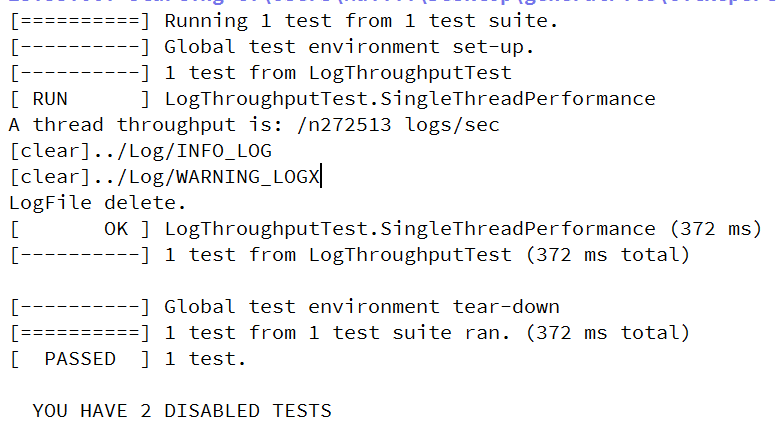
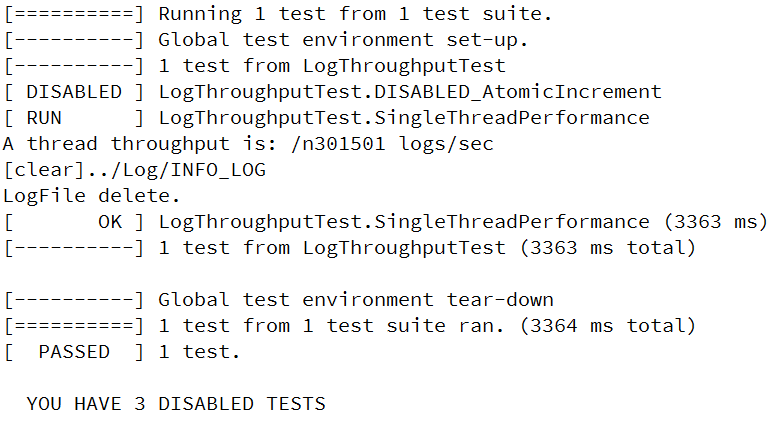
性能提升：线程安全

Changed region(s): [[0.0, 0.0, 0.9871, 0.6261], [0.0, 0.656, 0.8946, 0.8349], [0.0308, 0.8945, 0.4319, 0.9541]]

diff --git a/Wopes/ACore/main.cpp b/Wopes/ACore/main.cpp
@@ -23,12 +23,49 @@ TEST(ADir, DISABLED_isExistDir)
     ASSERT_NE(initDir.isExitsPath("./Dir"), true); // 致命断言（失败终止测试）
 }
 
+void TestThread(const int& threadNumber, const int& end) {}
+
+TEST(LogThroughputTest, DISABLED_AtomicIncrement)
+{
+    acore::ACore aLogInit;
+    aLogInit.getLogController()->setFilePath({ "../Log/INFO_LOG_TEST" });
+    aLogInit.getLogController()->setConsoleCondition(false);
+
+    constexpr int kThreads = 10;
+    constexpr int kIncrementsPerThread = 10000;
+    auto start = std::chrono::high_resolution_clock::now();
+
+    std::vector<std::thread> threads;
+    for (int i = 0; i < kThreads; ++i)
+    {
+        threads.emplace_back([=]() {
+            for (int j = 0; j < kIncrementsPerThread; ++j)
+            {
+                LOG_INFO("Test thread message: [" + std::to_string(i) + "] " + std::to_string(j));
+            }
+        });
+    }
+
+    for (auto& t : threads)
+    {
+        t.join();
+    }
+
+    auto end = std::chrono::high_resolution_clock::now();
+    auto duration = end - start;
+
+    // 输出性能指标
+    std::cout << "File with buffer: " << duration.count() / (kThreads * kIncrementsPerThread) << " ns/op\n";
+
+    // EXPECT_EQ(counter.GetCount(), kThreads * kIncrementsPerThread);
+}
+
 // DISABLED_  前缀：禁止测试项
 TEST(LogThroughputTest, SingleThreadPerformance)
 {
     const long long kLogCount = 1000000;
     acore::ACore aLogInit;
-    aLogInit.getLogController()->setFilePath({ "../Log/INFO_LOG", "../Log/WARNING_LOG" });
+    aLogInit.getLogController()->setFilePath({ "../Log/INFO_LOG" });
     aLogInit.getLogController()->setConsoleCondition(false);
     auto start = std::chrono::high_resolution_clock::now();
 

diff --git a/Wopes/ACore/aLog/log_data_param.cpp b/Wopes/ACore/aLog/log_data_param.cpp
@@ -18,6 +18,7 @@ const vector<string> &LogDataParam::getLogLevel() const
 
 void LogDataParam::push(MsgData *var)
 {
+    mInputMutex.lock();
     string dataTemp = "[";
     dataTemp.insert(1, var->date);
     dataTemp = dataTemp + "." + std::to_string(var->ms % 1000) + "] ";
@@ -26,6 +27,7 @@ void LogDataParam::push(MsgData *var)
     dataTemp = dataTemp + std::to_string(var->line) + " " + var->msg;
 
     dataString.push(dataTemp);
+    mInputMutex.unlock();
 }
 
 void LogDataParam::pushString(const string &str)
@@ -37,6 +39,7 @@ void LogDataParam::pushString(const string &str)
 
 void LogDataParam::pop()
 {
+    mInputMutex.lock();
     if (dataString.empty())
     {
         std::cerr << "queue is empty." << std::endl;
@@ -44,6 +47,7 @@ void LogDataParam::pop()
     }
 
     dataString.pop();
+    mInputMutex.unlock();
 }
 
 size_t LogDataParam::size()

diff --git a/Wopes/ACore/aLog/log_data_param.h b/Wopes/ACore/aLog/log_data_param.h
@@ -2,12 +2,14 @@
 #define LOG_DATAPARAM_H
 
 #include <list>
+#include <mutex>
 #include <queue>
 #include <string>
 #include <thread>
 #include <vector>
 
 using std::list;
+using std::mutex;
 using std::queue;
 using std::string;
 using std::thread;
@@ -58,6 +60,8 @@ public:
 
 private:
     queue<string> dataString;
+
+    mutex mInputMutex;
 
     const vector<string> logLevel = { "LOG_INFO", "LOG_DEBUG", "LOG_DETUALT", "LOG_WARN", "LOG_ERROR", "LOG_FATAL" };
 };

diff --git a/Wopes/ACore/aLog/log_file.cpp b/Wopes/ACore/aLog/log_file.cpp
@@ -128,6 +128,10 @@ void LogFile::threadHelperFunction()
     {
         for (ThreadData &fuc : vecThread)
         {
+            if (vecThread.empty())
+            {
+                break;
+            }
             if (fuc.ptrDataParam->size() > 0)
             {
                 vecThreadCondition[fuc.threadID]->condConsumer.notify_all();

diff --git a/Wopes/ACore/aLog/log_system.h b/Wopes/ACore/aLog/log_system.h
@@ -51,7 +51,9 @@ private:
 
     std::condition_variable condConsumer;
 
-    std::mutex mMutex;
+    mutex mMutex;
+
+    mutex mInputMutex;
 
     thread* workConsole;
 

diff --git a/doc/zh/Log.md b/doc/zh/Log.md
@@ -11,14 +11,22 @@
 - 控制台输出（已完成）
 - 输出日志文件（已完成）
 - 文件设置接口（已完成）
-- 稳定性测试（进行中）
+- 线程安全（已完成）
 
+
+单文件写入数据量如下：
 
  性能测试 | 测试值 |
 | ----------- | ----------- |
-| 吞吐量(debug模式) | 13w/s~15w/s |
-| 吞吐量(release模式)|27w/s|
+| 写入速度（debug模式） | 13w/s~15w/s |
+| 写入速度（release模式）| 30w/s |
+| ns/op（release模式）| 4.2k ns/op |
 
-如下图吞吐量测试（release模式）：
+如下图写入速度测试（release模式）：
 
-![图片](../img/test-Release.png)
+![图片 speed ](../img/test-Release.png)
+
+如下图 `ns/op` 测试（release模式）
+![图片 ns/op](../img/test-Release-ns_op.png)
+
+注：当使用多个文件同时写入，会导致性能下降
